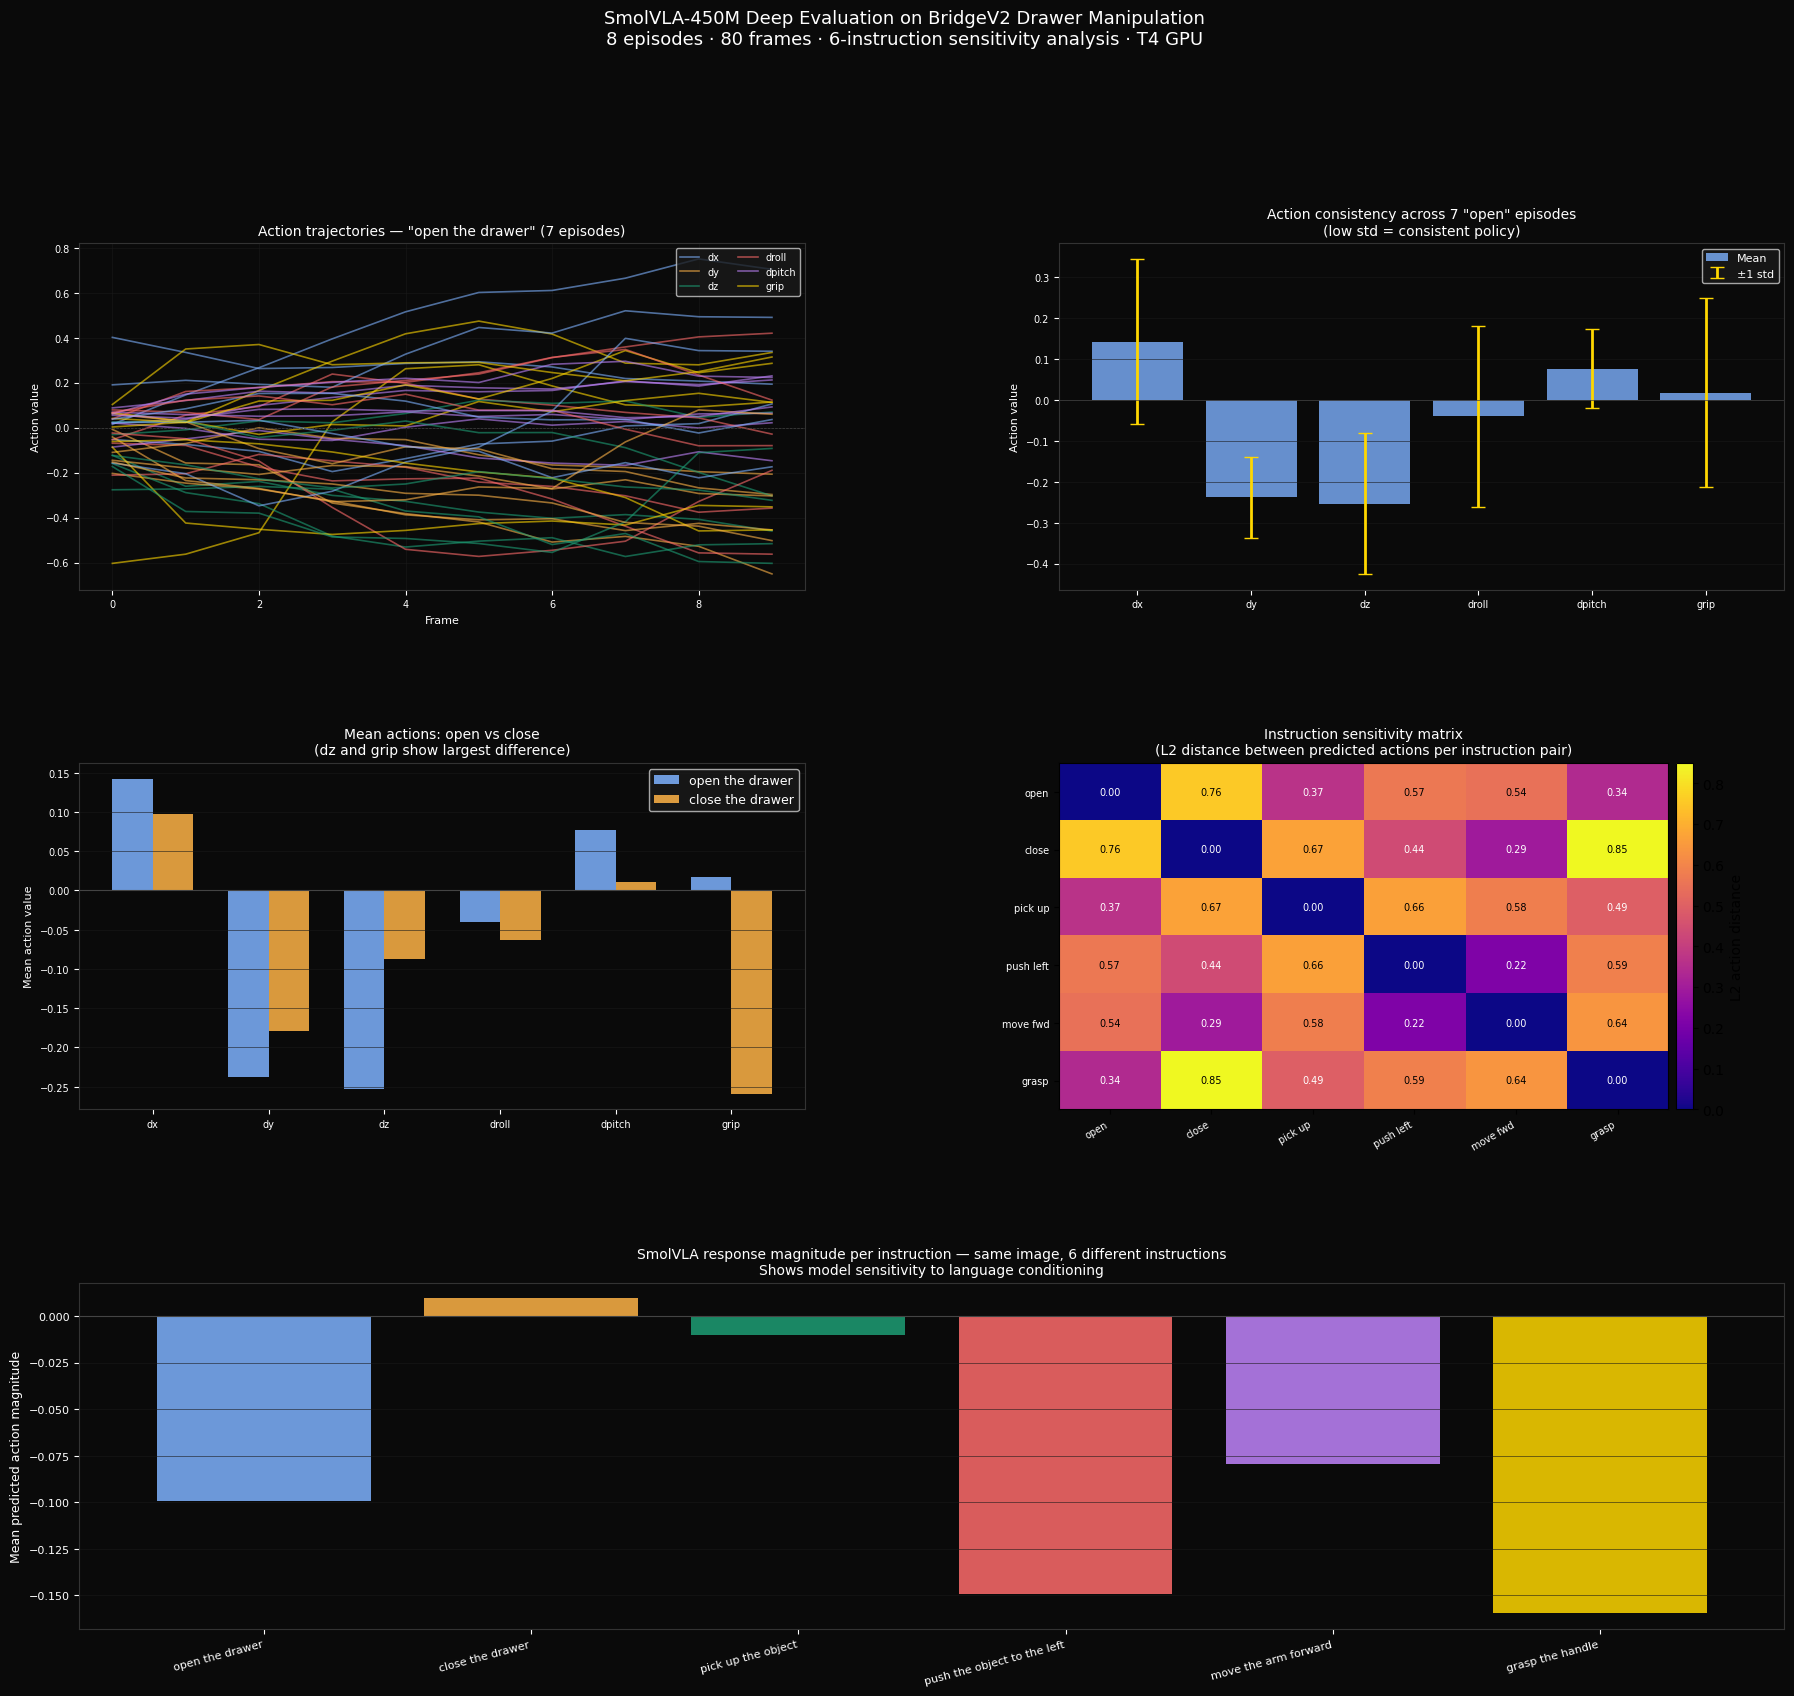
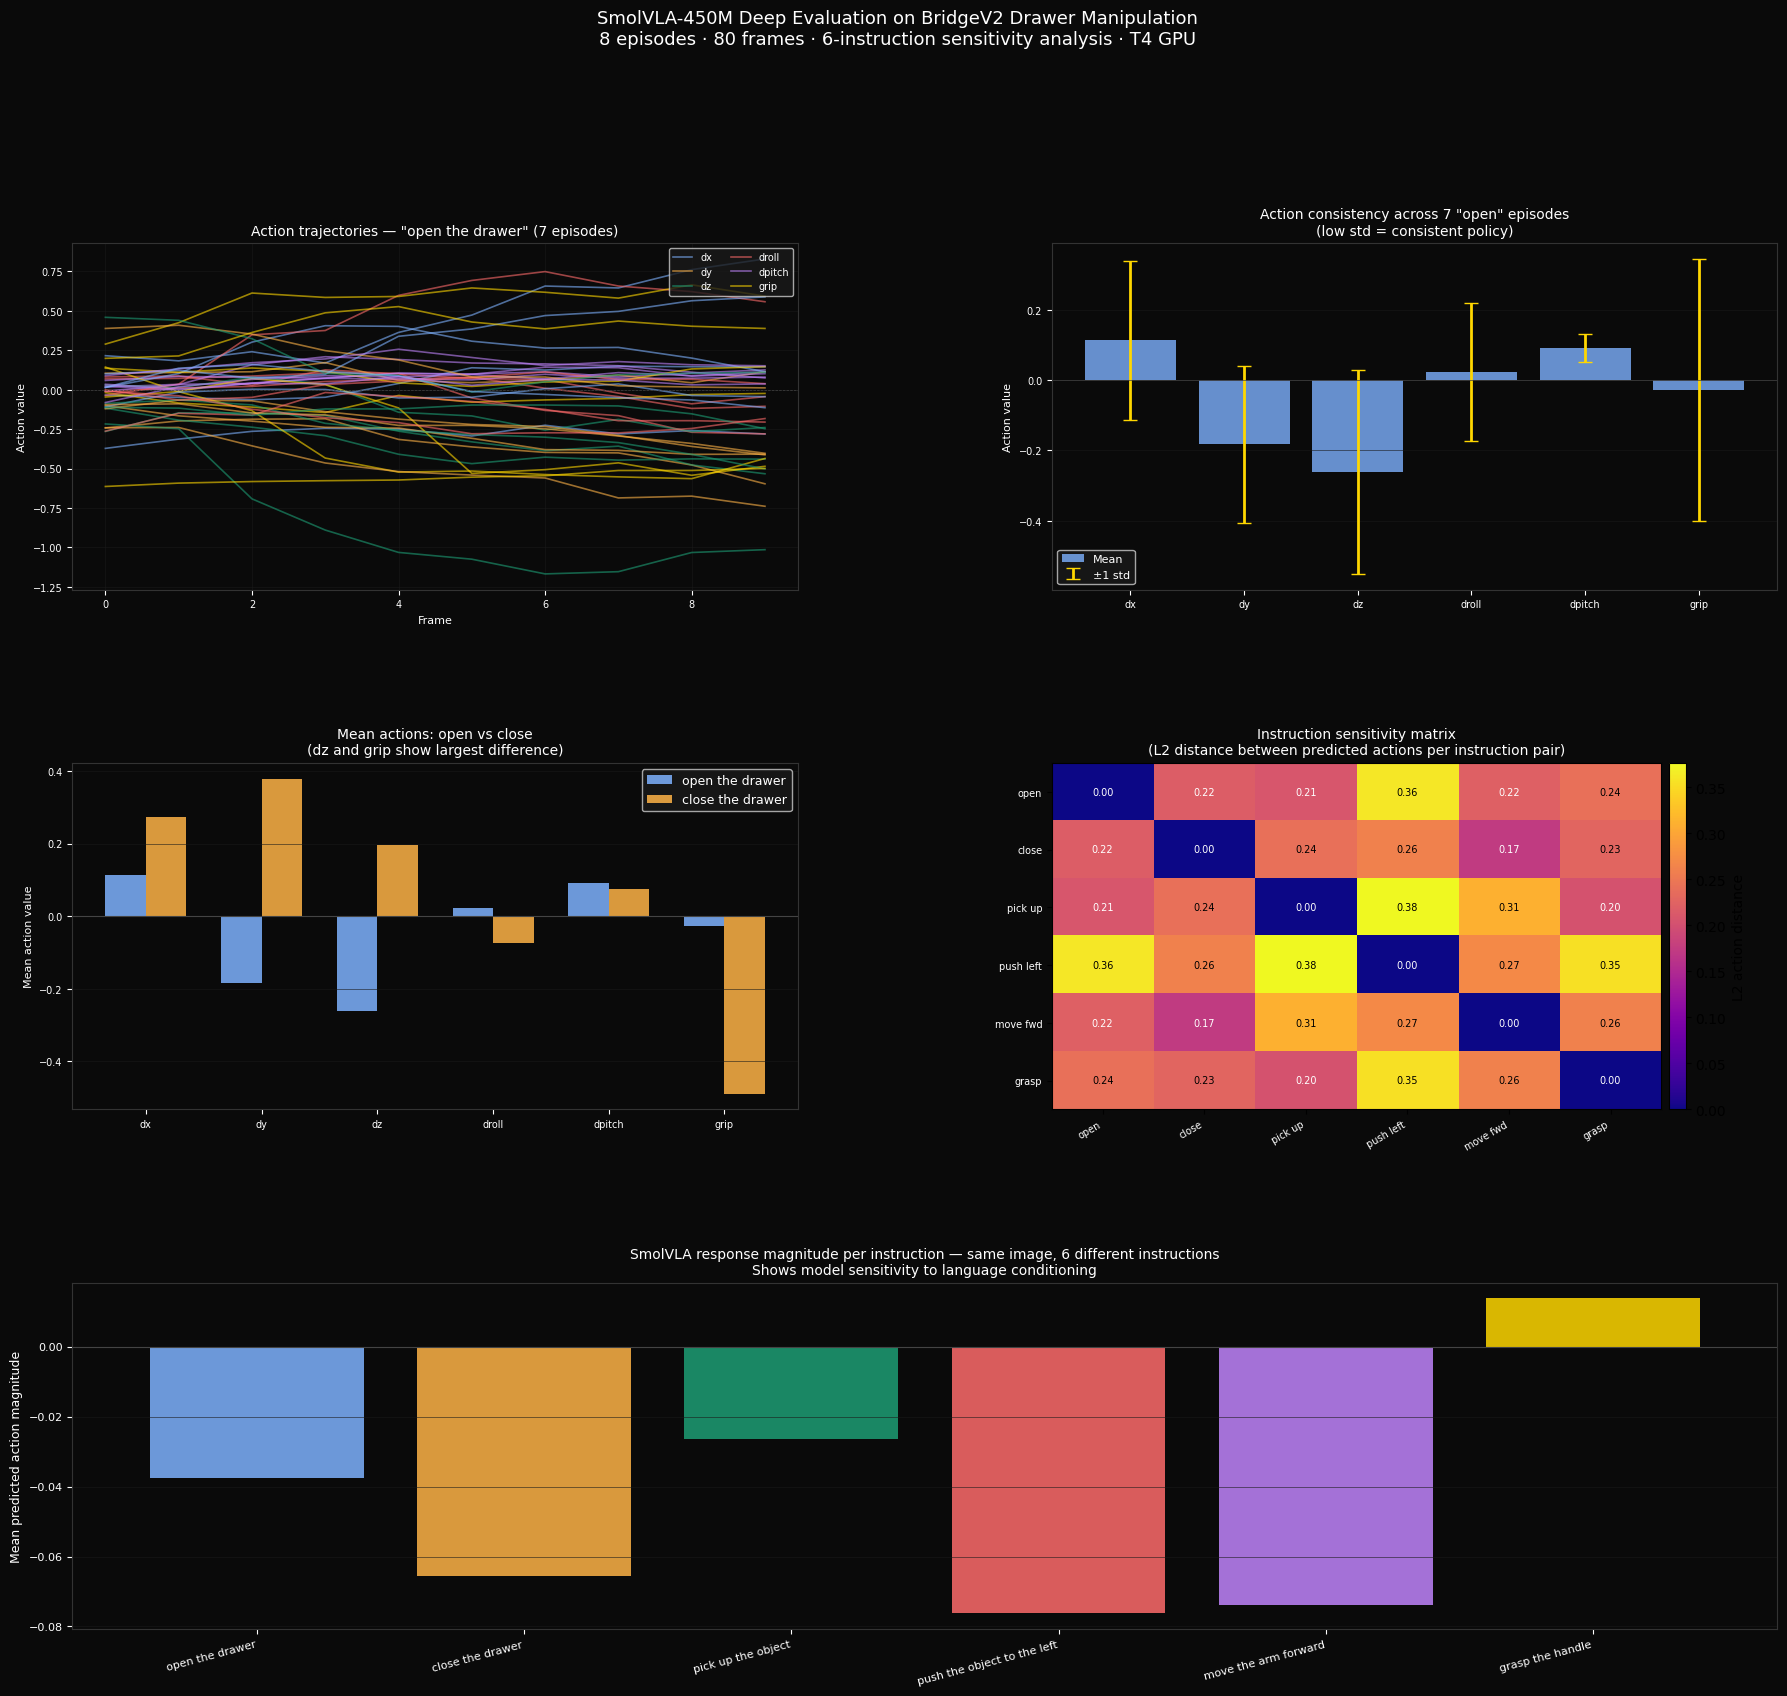
Align portfolio claims with notebook evidence

diff --git a/projects/smolvla-action-prediction.md b/projects/smolvla-action-prediction.md
@@ -1,15 +1,15 @@
 ---
 layout: default
 title: SmolVLA for Language-Conditioned Robot Action Prediction
-description: SmolVLA-450M action consistency, instruction sensitivity, and temporal analysis on BridgeV2 drawer manipulation observations.
+description: Open-loop SmolVLA-450M action variation, prompt sensitivity, and temporal analysis on sampled BridgeV2 drawer observations.
 project: true
 image: /assets/thumbnails/smolvla.webp
 repository: https://github.com/adityx23/smolvla-bridgev2-action-analysis
-date_modified: 2026-08-03
+date_modified: 2026-08-08
 technologies: [PyTorch, SmolVLA, LeRobot, BridgeV2, Robot Learning]
-built: An inference and analysis workflow for testing language sensitivity and temporal action consistency on real robot observations.
-validated: Eight BridgeV2 episodes, 80 frames, and six prompts across drawer-opening and drawer-closing behaviors.
-why: Evaluates whether a vision-language-action model is physically and linguistically meaningful rather than relying on qualitative demos alone.
+built: An open-loop inference workflow for measuring prompt sensitivity and temporal variation in predicted actions on real robot observations.
+validated: Eight BridgeV2 episodes, 80 sampled frames, and six prompts, with seven open examples and one exploratory close example.
+why: Quantifies how a pretrained vision-language-action model's predictions vary with observations and prompts without claiming closed-loop task success.
 previous_project_url: /projects/slam-navigation-robot
 previous_project_title: SLAM-Based Navigation Robot
 next_project_url: /projects/diffusion-policy-pusht
@@ -34,9 +34,9 @@ next_project_title: Diffusion Policy on PushT
 
 ## Overview
 
-Applied **SmolVLA-450M**, a pretrained vision-language-action model, to **BridgeV2** real robot manipulation trajectories to study how language instructions influence predicted actions in drawer opening and closing tasks.
+Applied **SmolVLA-450M**, a pretrained vision-language-action model, to sampled **BridgeV2** real-robot observations to study how prompts influence open-loop action predictions for drawer-opening and drawer-closing examples.
 
-The project focused on whether the model produced physically meaningful action differences across instructions, how consistent its predicted actions were across similar episodes, and how its temporal behavior evolved during a manipulation sequence.
+The project measures whether predicted actions differ across prompts, how much they vary across similar episodes, and how they evolve over a sampled sequence. It does not execute the predictions on a robot or measure task success.
 
 ---
 
@@ -63,8 +63,8 @@ The project uses **BridgeV2**, a dataset of real **WidowX** robot manipulation d
 
 The project explored four key questions:
 
-- Does the model separate **open** vs **close** actions in a physically meaningful way?
-- Are action predictions consistent across multiple episodes of the same task?
+- How do predicted **open** and **close** action vectors differ in this sample?
+- How variable are action predictions across multiple episodes with the same label?
 - Does the model respond differently to semantically different language instructions on the same image?
 - How does action behavior evolve over time during an episode?
 
@@ -72,13 +72,13 @@ The project explored four key questions:
 
 ## Open vs Close Action Separation
 
-A key result was that SmolVLA separated the sampled open and close actions most strongly in **grip**, followed by **dz**.
+A key result in the supplied run was that sampled open and close predictions differed most strongly in **dy** (0.562), followed by **grip** (0.461) and **dz** (0.458).
 
-- **grip difference:** `0.276`
-- **dz difference:** `0.166`
-- **dy difference:** `0.059`
+- **dy difference:** `0.562`
+- **grip difference:** `0.461`
+- **dz difference:** `0.458`
 
-These differences indicate that the model is not producing one generic action vector for both task directions. Because the evaluation includes seven open episodes but only one close episode, the comparison is exploratory rather than a balanced task benchmark.
+These differences show that the model did not produce one identical mean action vector for both sampled task labels. Because the evaluation includes seven open episodes but only one close episode—and uses a zero-valued state placeholder—the comparison is exploratory rather than a balanced physical-control benchmark.
 
 ---
 
@@ -100,8 +100,8 @@ Instruction sensitivity analysis showed that the model produced distinct predict
 </p>
 
 ### Key findings
-- mean pairwise L2 distance across instructions: **0.534**
-- max pairwise L2 distance: **0.850**
+- mean pairwise L2 distance across prompts: **0.262**
+- max pairwise L2 distance: **0.376**
 - model behavior changed meaningfully under different natural-language commands
 
 ---
@@ -111,12 +111,12 @@ Instruction sensitivity analysis showed that the model produced distinct predict
 Temporal analysis showed that model behavior evolved across an episode rather than remaining static.
 
 Key observations:
-- `dpitch` had the lowest mean per-frame standard deviation (`0.101`)
-- `grip` had the highest mean per-frame standard deviation (`0.274`)
-- mean cumulative motion was similar for open (`3.957`) and close (`3.925`) samples
+- `dpitch` had the lowest mean per-frame standard deviation (`0.048`)
+- `grip` had the highest mean per-frame standard deviation (`0.393`)
+- cumulative motion magnitude was `3.623` for the mean open trajectory and `7.580` for the single close trajectory
 - action values evolved across the ten sampled frames rather than remaining constant
 
-This indicates that the model maintains task-specific structure throughout the sequence.
+This shows temporal structure in the predicted action sequence; it does not establish closed-loop task completion.
 
 <p align="center">
   <img src="{{ site.baseurl }}/assets/smolvla/smolvla_temporal_consistency.png" alt="SmolVLA temporal consistency" width="900" loading="lazy" decoding="async">
@@ -130,20 +130,21 @@ This indicates that the model maintains task-specific structure throughout the s
 ## Results Summary
 
 ### Strongest quantitative outcomes
-- **grip separation:** `0.276` between sampled open and close actions
-- **dz separation:** `0.166`
-- **mean instruction sensitivity:** `0.534` pairwise L2 distance
+- **dy separation:** `0.562` between sampled open and close predictions
+- **grip separation:** `0.461`
+- **dz separation:** `0.458`
+- **mean prompt sensitivity:** `0.262` pairwise L2 distance
 - **most consistent dimension:** `dpitch`
 - **most variable dimension:** `grip`
-- **close cumulative motion:** `3.925`
-- **open cumulative motion:** `3.957`
+- **close cumulative motion:** `7.580`
+- **open cumulative motion:** `3.623`
 
 ### Interpretation
-The results suggest that the pretrained SmolVLA policy:
-- captures meaningful task-direction differences
-- is sensitive to instruction semantics
+The sampled predictions suggest that the pretrained SmolVLA policy:
+- produces different mean vectors for the sampled task labels
+- is sensitive to prompt changes in the sampled image
 - exhibits structured temporal behavior
-- produces physically consistent action distributions
+- produces structured but variable action distributions
 
 ---
 
@@ -161,10 +162,10 @@ The results suggest that the pretrained SmolVLA policy:
 
 ## Engineering Insights
 
-- pretrained VLA models can demonstrate meaningful language grounding without task-specific retraining
+- pretrained VLA predictions can be measurably prompt-sensitive without task-specific retraining; closed-loop tests are still required to establish language grounding and task success
 - action-space analysis is effective for evaluating robot policy behavior
 - temporal analysis reveals confidence trends that single-frame evaluation cannot capture
-- simple tasks like drawer manipulation are powerful probes for physical correctness
+- simple tasks like drawer manipulation are useful probes for prediction structure before closed-loop evaluation
 
 ---
 

diff --git a/projects/lk-stereo-visual-slam.md b/projects/lk-stereo-visual-slam.md
@@ -5,10 +5,10 @@ description: Stereo visual-inertial SLAM on EuRoC with feature tracking, IMU fus
 project: true
 image: /assets/thumbnails/lk-slam.webp
 repository: https://github.com/adityx23/aap-slam-orb-nomad-navigation
-date_modified: 2026-08-03
+date_modified: 2026-08-08
 technologies: [Python, OpenCV, SciPy, EuRoC, Visual-Inertial Odometry]
-built: A stereo visual-inertial pipeline covering tracking, geometry, PnP motion estimation, optimization, loop closure, and sparse mapping.
-validated: Reported trajectory error improved from 0.192 m to 0.031 m, with an additional 3,630-frame ORB evaluation.
+built: Stereo visual-inertial and ORB frame-to-map evaluation notebooks covering tracking, geometry, PnP motion estimation, optimization, loop closure, sparse mapping, and topological navigation.
+validated: A tightly coupled 200-frame run improved ATE from 0.1924 m to 0.0305 m; separate full-sequence experiments report approximately 0.23 m ATE and a 3,630-frame ORB run reports 0.9002 m.
 why: Shows algorithmic depth from perception frontend through estimation backend and quantitative trajectory evaluation.
 previous_project_url: /projects/ackermann-autonomous-robot
 previous_project_title: Ackermann Robot Bring-Up & Native Autonomy
@@ -22,7 +22,7 @@ next_project_title: Automatic Transmission Controller
   <div><strong>Role</strong><span>Perception pipeline and evaluation</span></div>
   <div><strong>Context</strong><span>Independent SLAM implementation</span></div>
   <div><strong>Platform</strong><span>Python · OpenCV · SciPy · EuRoC</span></div>
-  <div><strong>Outcome</strong><span>Reported error reduced from 0.192 m to 0.031 m</span></div>
+  <div><strong>Outcome</strong><span>0.0305 m ATE on a scoped 200-frame run</span></div>
 </div>
 
 <div class="project-links" markdown="0">
@@ -36,9 +36,9 @@ next_project_title: Automatic Transmission Controller
 
 Built a stereo visual-inertial SLAM pipeline on the EuRoC MAV dataset, starting from feature tracking and stereo geometry and extending through visual odometry, IMU-assisted estimation, local optimization, loop closure, and sparse 3D mapping.
 
-The final system combined stereo tracking, PnP-based motion estimation, IMU-informed pose refinement, bundle adjustment, and graph-based loop closure to reduce drift and improve global consistency.
+The notebooks combine stereo tracking, PnP-based motion estimation, IMU-informed pose refinement, bundle adjustment, and graph-based loop-closure experiments. They retain both improvements and negative results: the strongest short-window run improves substantially, while some full-sequence optimization variants provide little benefit or increase error.
 
-An additional **AAP-SLAM-ORB + NoMaD** notebook explores a related ORB-based frame-to-map frontend and converts its keyframes into a topological graph for goal-conditioned navigation. That executed run processed 3,630 EuRoC MH_01_easy frames, achieved 0.9002 m aligned SLAM ATE RMSE, and produced a graph with 244 nodes. Its recorded navigation stage used a documented lightweight NoMaD fallback, so the repository reports the navigation metrics separately from the stronger SLAM result.
+An additional **AAP-SLAM-ORB + NoMaD** notebook explores a related ORB-based frame-to-map frontend and converts its keyframes into a topological graph for goal-conditioned navigation. Its executed run processed 3,630 EuRoC MH_01_easy frames, achieved 0.9002 m aligned SLAM ATE RMSE, and produced a graph with 244 nodes. The repository includes both the supplied real-`nomad.pth` run and an alternate architecture notebook documenting the earlier lightweight fallback.
 
 <p align="center">
   <img src="{{ site.baseurl }}/assets/lk_slam/slam_final_result.png" alt="Final SLAM result summary" width="900" loading="lazy" decoding="async">
@@ -185,7 +185,7 @@ Alongside trajectory estimation, the system reconstructed a sparse 3D landmark m
 
 ## Results and Validation
 
-The final system was evaluated using aligned trajectory comparison and trajectory-error metrics on EuRoC MAV sequences.
+The pipelines were evaluated using aligned trajectory comparison and trajectory-error metrics on EuRoC MAV sequences. Results depend strongly on evaluation length and configuration: the 0.0305 m tightly coupled result covers frames 50–249, while the full 3,630-frame MH_01 runs are approximately 0.23 m ATE. The recorded full-sequence loop-closure experiment increased ATE from 0.2451 m to 0.3125 m, so it is retained as a negative result rather than presented as an improvement.
 
 <div class="figure-grid">
 

diff --git a/projects/diffusion-policy-pusht.md b/projects/diffusion-policy-pusht.md
@@ -5,10 +5,10 @@ description: Evaluation of a pretrained diffusion policy across 30 PushT rollout
 project: true
 image: /assets/thumbnails/diffusion-policy.webp
 repository: https://github.com/adityx23/diffusion-policy-pusht-evaluation
-date_modified: 2026-08-03
+date_modified: 2026-08-08
 technologies: [PyTorch, Diffusion Policy, LeRobot, PushT, Robot Learning]
 built: A repeatable rollout-evaluation workflow measuring success, trajectory efficiency, reward behavior, and failure structure.
-validated: A 66.7% success rate across 30 rollouts, consistent with the approximately 70% reported checkpoint benchmark.
+validated: The recorded notebook run achieved a 66.7% success rate across 30 stochastic rollouts; completion and step count were analyzed separately from accumulated reward.
 why: Demonstrates disciplined evaluation of a learned controller across repeated trials instead of selecting a single successful episode.
 previous_project_url: /projects/smolvla-action-prediction
 previous_project_title: SmolVLA Action Analysis
@@ -69,7 +69,7 @@ The evaluation was performed on the **PushT** task, a planar manipulation enviro
 
 The policy achieved a **66.7% success rate (20/30)** across 30 rollout episodes.
 
-Performance is consistent with the reported benchmark (~70%), indicating correct implementation and stable policy behavior.
+The recorded rate is close to the approximately 70% reference value cited in the notebook, although a 30-episode stochastic evaluation is too small to establish equivalence or long-run stability.
 
 ---
 
@@ -87,7 +87,7 @@ Performance is consistent with the reported benchmark (~70%), indicating correct
 | Inference time        | ~3.2s/chunk   |
 | Total eval time       | 6.6 min       |
 
-Paper-reported success rate: **~70%** — the observed result of **66.7%** is consistent with expected checkpoint performance.
+Reference success rate cited in the notebook: **~70%**. The observed **66.7%** is nearby, but should be interpreted as one finite stochastic run rather than a reproduction confidence interval.
 
 The gap between successful and failed episodes is clearly reflected in both step count and reward distribution, reinforcing that trajectory efficiency is the dominant factor in task completion.
 
